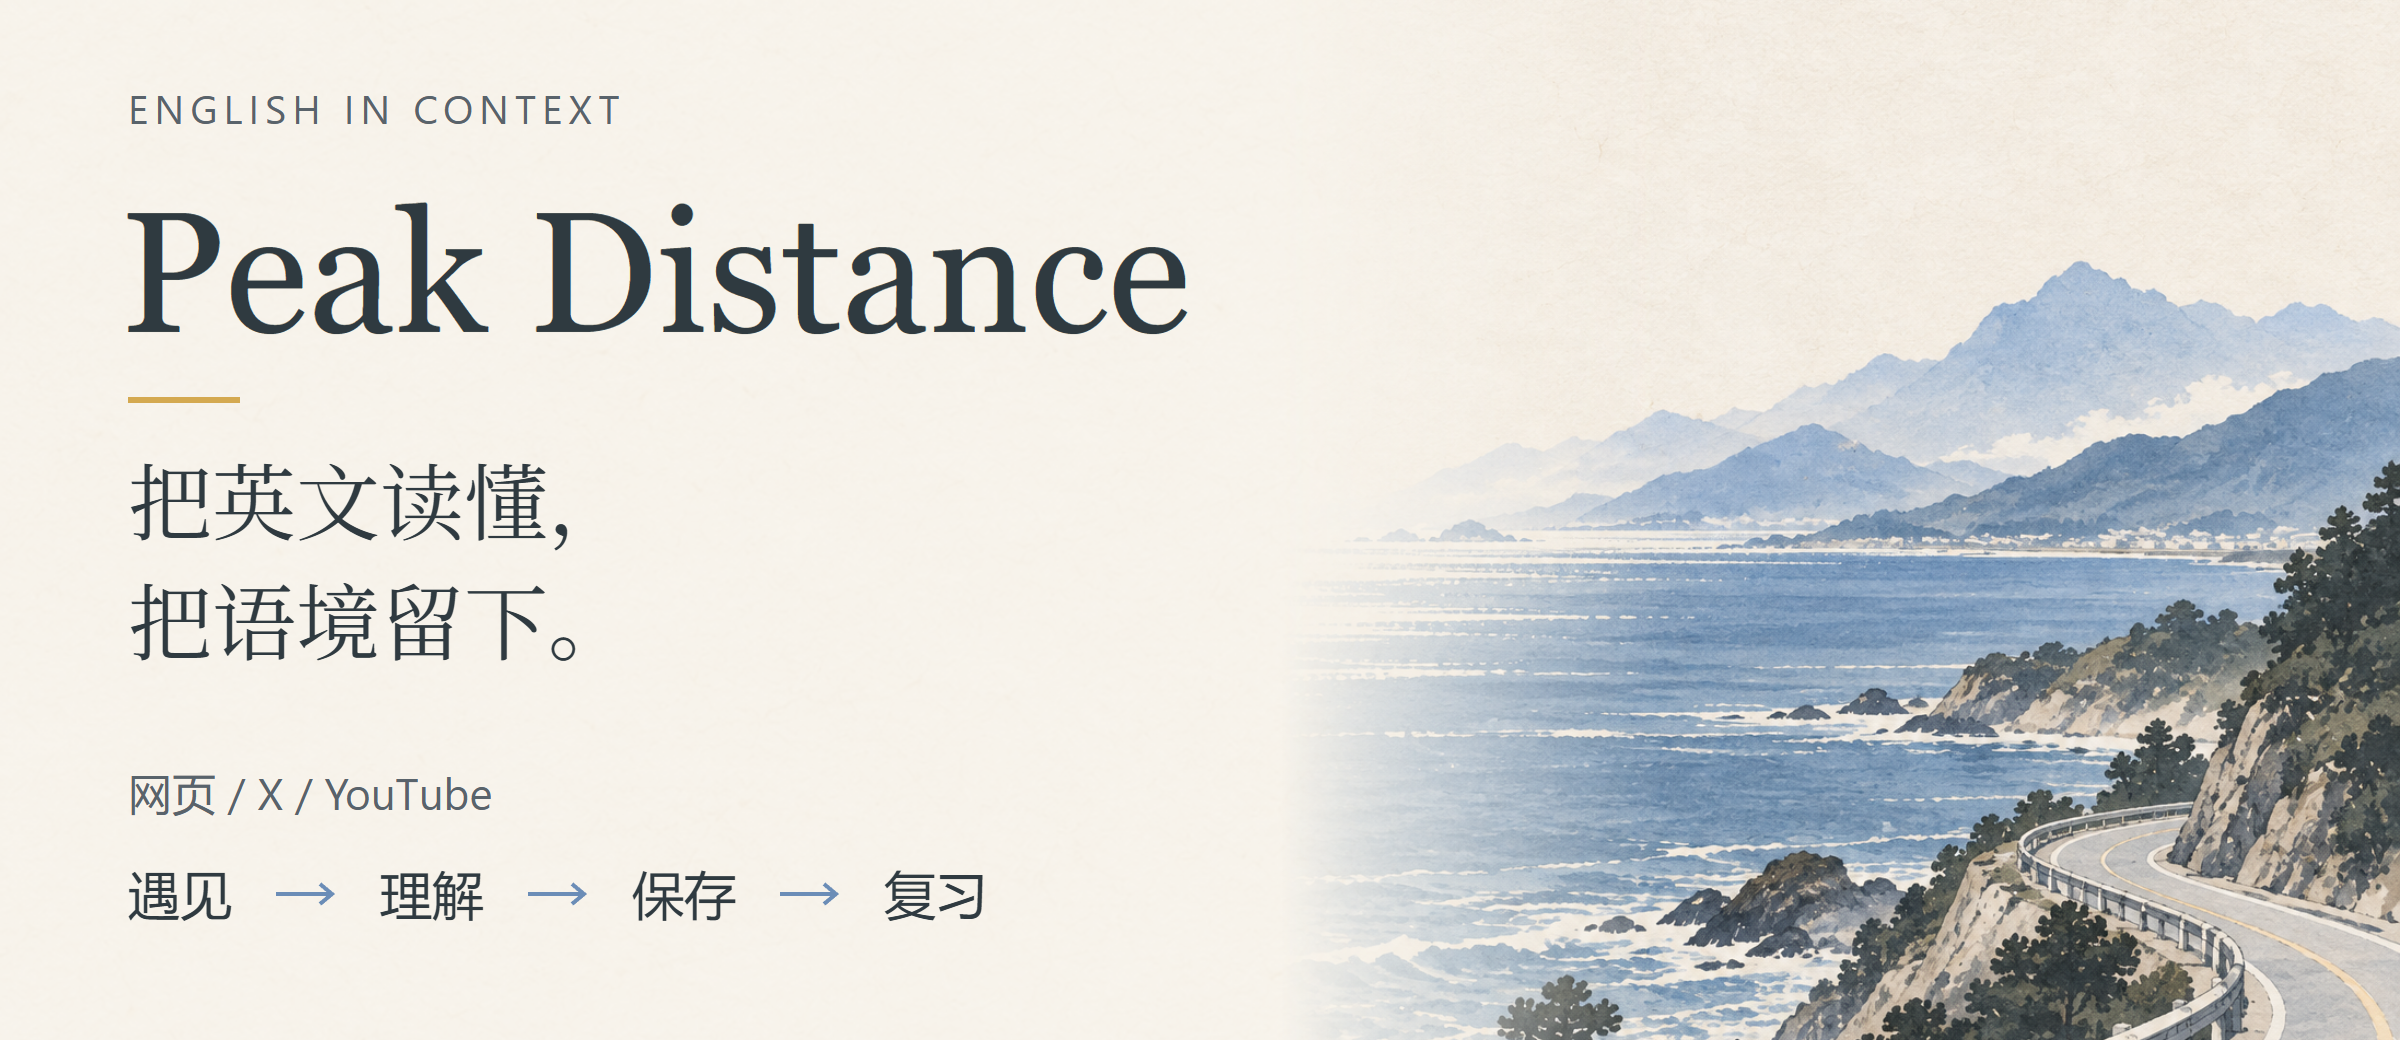
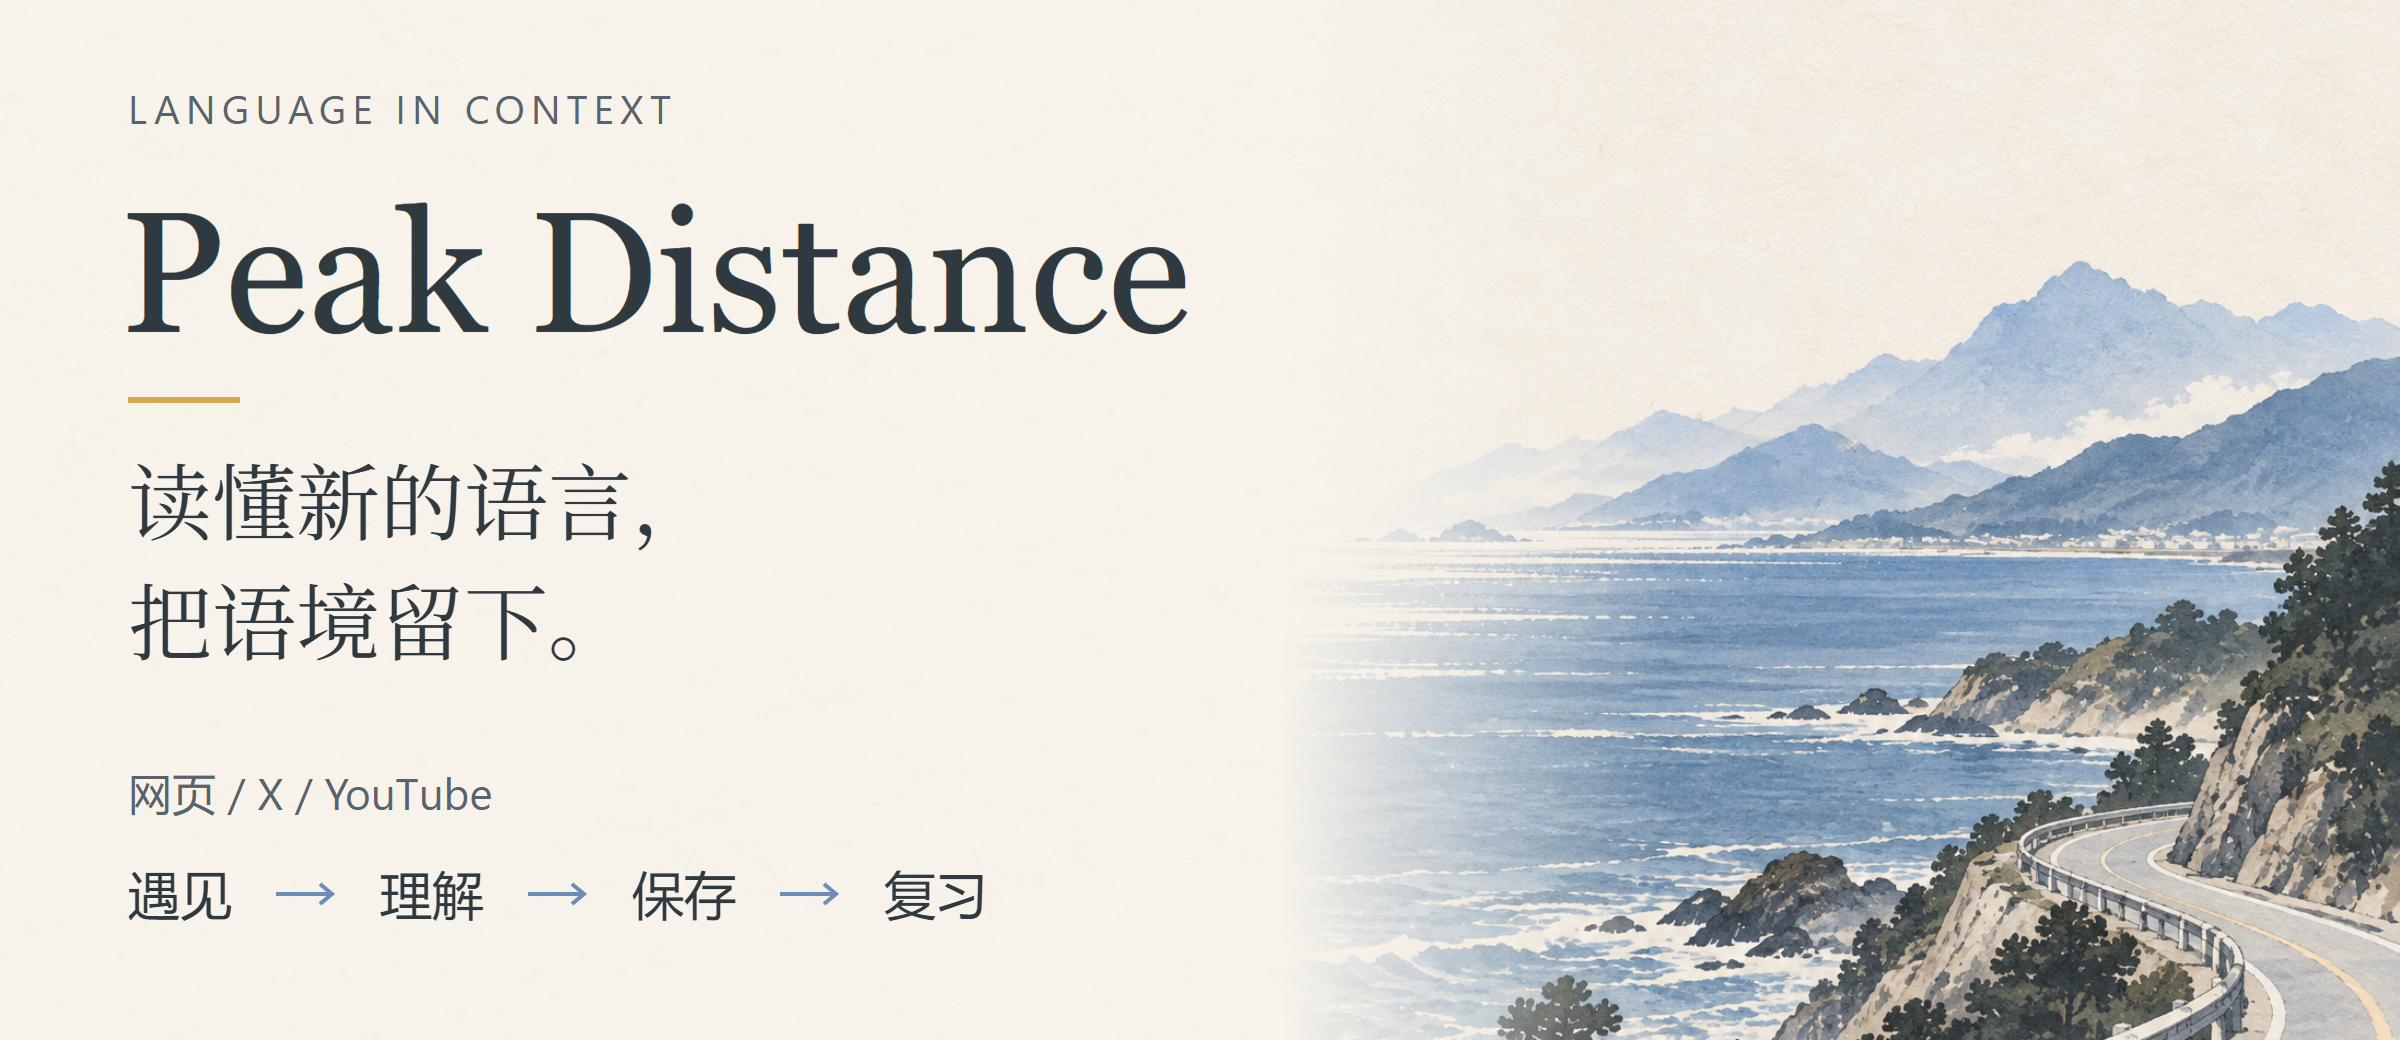
Update README and hero assets for multilingual focus and MIT license

Changed region(s): [[0.0312, 0.4308, 0.2812, 0.5231], [0.0625, 0.0923, 0.2812, 0.1231]]

diff --git a/README.md b/README.md
@@ -1,113 +1,112 @@
 <p align="center">
-  <img src="assets/readme/hero.png" width="100%" alt="Peak Distance：把英文读懂，把语境留下。在网页、X 与 YouTube 中遇见、理解、保存并复习英文表达。">
+  <img src="assets/readme/hero.png" width="100%" alt="Peak Distance：读懂新的语言，把语境留下。在网页、X 与 YouTube 中查词、保存原句并复习。">
 </p>
 
 # Peak Distance
 
-**在网页与视频里读懂英文，把值得记住的表达连同语境留下来。**
+**查过的词，和原句一起留下。**
 
-Peak Distance 是一款 Chrome 英语学习扩展。浏览网页、阅读 X 或观看 YouTube 时，就地查词、翻译、收藏，再回到原句复习。
+Peak Distance 是一款浏览器语言学习扩展。读网页、刷 X 或看 YouTube 时，你可以查词、翻译，再把想记住的表达连同原句保存下来。复习时回到它出现过的地方，也可以把学习记录存成本地文件，用 Obsidian 等笔记软件继续整理。
 
-[安装](#安装) · [使用](#使用) · [隐私与服务](#隐私与服务) · [常见问题](#常见问题) · [许可](#许可)
+它支持英语之外的多种语言。你可以选择译文和解释使用的语言，再按语言筛选生词本。
 
-- **就地理解**：选词查释义，选句或段落看翻译，保留词典来源。
-- **视频精读**：双语字幕、悬停查词、逐句回听，以及可选的句末自动暂停。
-- **带着语境记忆**：网页与视频共用生词本，收藏时保留原句、来源和视频位置。
-- **按需深入**：用 AI 解释用法，或附加页面、选区、字幕继续提问。
+[下载安装包](https://github.com/Rayyy3320/peak-distance/releases/latest) · [安装方法](#安装) · [使用](#使用) · [隐私与服务](#隐私与服务) · [许可](#许可)
 
 ## 安装
 
-需要桌面 **Chrome 142 或更新版本**。
+需要桌面 **Chrome 142 或更新版本**。当前发布版为 [v0.5.2](https://github.com/Rayyy3320/peak-distance/releases/tag/v0.5.2)。
 
-### 使用安装包
-
-从 [最新版本](https://github.com/Rayyy3320/peak-distance/releases/latest) 下载 `peak-distance-<版本>-chrome.zip` 安装包，**无需安装 Node.js，也无需运行命令**。
-
-1. **解压**到一个固定文件夹，例如 `PeakDistance`；打开后应能直接看到 `manifest.json`。
+1. 从 [Releases](https://github.com/Rayyy3320/peak-distance/releases/latest) 下载名称以 `-chrome.zip` 结尾的安装包，解压到一个固定文件夹。
 2. 在 Chrome 地址栏输入 `chrome://extensions`，开启右上角的「开发者模式」。
-3. 点击「加载已解压的扩展程序」，选择刚才包含 `manifest.json` 的文件夹。
+3. 点击「加载已解压的扩展程序」，选择包含 `manifest.json` 的文件夹。
 
-安装后，在浏览器的扩展菜单中将 **Peak Distance** 固定到工具栏，刷新已打开的网页即可使用。请保留安装文件夹，扩展运行时仍需读取其中的文件。
+无需安装 Node.js，也无需运行命令。安装后将 Peak Distance 固定到工具栏，刷新已打开的网页，就可以选词试用了。请保留解压后的文件夹，扩展运行时仍要读取它。
 
 <details>
-<summary>从源码构建（开发者）</summary>
+<summary>从源码构建</summary>
 
-准备 Node.js 22+ 和 npm，下载源码并在项目目录运行：
+准备 Node.js 22+ 和 npm，下载源码后，在项目目录运行：
 
 ```sh
 npm ci
 npm run build
 ```
 
-按上面的步骤加载 `.output/chrome-mv3` 文件夹。`npm run zip` 可生成用于分发的 Chrome 安装包。
-
-日常开发使用 `npm run dev`，提交改动前可运行 `npm run verify-local`。修改代码并重新构建后，需要重新加载扩展并刷新目标网页。
+然后按上面的步骤加载 `.output/chrome-mv3`。开发时可用 `npm run dev`，检查改动可用 `npm run verify-local`。重新构建后，还需要重新加载扩展并刷新目标网页。
 
 </details>
 
 ## 使用
 
-### 读网页
+### 读网页：查词，也保存原句
 
-选中单词或短语，点击「查词」，查看释义、例句和来源；选中句子或段落，点击「翻译」。选区旁的「添加到对话」气泡可直接把它带入 AI 问答：单词和短语会连同所在原句一起附加，句子段落附加选区本身，已有问题草稿会保留。漏选了首尾字母没关系，查词与词/短语的翻译都会自动补全并去掉外围标点（如选 learnin 查 learning，选 teady pace. 翻译 steady pace）；整句和段落的翻译保持原文不改写。
+选中单词或短语，点击「查词」；选中句子或段落，点击「翻译」。保存表达时，原句和来源也会一起留下。
 
-英语之外的内容同样可查询与收藏：界面会自动判断文字系统（日语、韩语、俄语、阿拉伯语、泰语等），无法确定语言时词卡显示「待确认」，可在收藏后核对。
+例如，读到 “She is comfortable **with** people.”，保存 **with** 后，复习时还能看到这句原文，不用只对着一个孤立的词回想。
 
-例如，读到 “She is comfortable **with** people.”，选中 **with** 查词并保存，生词本会同时保留这句原文。
+选区旁的「添加到对话」可以把内容带入 AI 问答。单词和短语会连同所在原句一起附加；选择句子或段落时，则附加选中的内容。已有的问题不会被替换，点击发送后才会请求 AI。
 
-### 看视频
+### 看视频：保留原文，按句回听
 
-打开带字幕的 YouTube 视频，在视频下方阅读双语字幕。不再强制切英语：沿用当前原文字幕轨道（同语言的人工字幕优先），译文语言由设置决定。悬停词语可查词并暂停，点击展开词卡；支持拖选短语、收藏词语和整句，播放器字幕和学习面板字幕列表中的选区也可以「添加到对话」（跨多句字幕会附带起始时间）。视频描述、评论等页面文字的选区与普通网页一样出现「查词／翻译／添加到对话」浮条。
+打开带字幕的 YouTube 视频，在视频下方阅读双语字幕。扩展沿用当前的原文字幕轨道；译文用什么语言，由你的设置决定。
 
-播放器底部的「双语」菜单可调整翻译方式、中文显示、字号，以及 **AP（每句结束自动暂停）**。打开学习面板后，还能查看字幕列表、词语出现位置和已保存内容，逐句重播。
+悬停字幕中的词语，可以查看释义并暂停播放；点击后展开词卡，也能拖选短语、收藏整句。播放器字幕和学习面板里的字幕选区，都可以添加到对话中继续提问。
 
-### 回看与复习
+播放器底部的「双语」菜单可以调整翻译方式、译文显示和字号。打开 **AP** 后，视频会在每句字幕结束时暂停；学习面板也提供上一句、重播和下一句，方便反复听一段内容。
 
-点击工具栏中的 Peak Distance，进入「生词本」。在原句中回顾表达，调整「已收藏／在学／已掌握」状态，或返回网页与视频中的原始位置。再次遇见已存词语时，网页和字幕会共享学习标记。
+### 学不同语言：选择自己看得懂的解释
 
-工作区可切换为固定侧栏或浮动面板，会话及未发送输入、材料与引用会随之保留；关闭面板或切换会话后丢弃未发送内容，首次发送才保存到历史。
+在「设置 → 语言」中选择默认的「理解语言」，也就是你希望译文和词语解释使用的语言。还可以单独设置某种原文语言，例如用中文理解英语、用英语理解日语。
 
-### 语言与学习库
+网页和视频中的表达进入同一本生词本。点击生词本顶部的语言筛选按钮，可以只看某种语言的记录，再调整「已收藏／在学／已掌握」状态，或进入原句复习。
 
-「设置 → 语言」可设定默认理解语言（词语解释与译文的 target），并可按源语言覆盖，例如「日语 → 英语」。开启「无词典结果时自动使用 AI 查词」后，仅当你主动点击查词、词典明确无结果且 AI 已配置时才调用 AI；悬停与预览永不触发。
+不同语言能使用的查询来源不同。英语到中文优先查询在线词典，其他语言组合可能使用常规译文。词卡会区分来源；语言无法确认时会标为「待确认」，不会把所有内容都当作英语。
 
-「设置 → 学习库」连接一个本地文件夹（可放在 Obsidian 仓库内）：词汇、句子、笔记、偏好和完整聊天历史以 Markdown 保存，Chrome 与 Edge 连接同一目录即可共享。Obsidian 中修改状态或「我的笔记」会被读回；两边同时修改同一字段会提示冲突并保留双方。断开连接不删除任何文件。
+### 留在本地：把学习记录放进自己的文件夹
 
-### 使用 AI（可选）
+在「设置 → 学习库」点击「连接学习文件夹」，选择一个本地目录。词汇、句子、笔记、语言偏好和已保存的完整聊天历史，会以 Markdown 格式保存，也就是能用文本编辑器打开的笔记文件。你也可以选择 Obsidian 仓库中的文件夹。
 
-在「设置 → AI 服务」选择服务商，填写 **API Key**，点击「保存并使用」。预设支持 DeepSeek、OpenAI、Anthropic、Gemini、智谱 GLM 和 Kimi，自带地址与默认模型；原 DeepSeek Key 可继续使用。
+在 Obsidian 中修改词条状态或「我的笔记」，扩展会读回这些变化。同一台电脑上的 Chrome 和 Edge 连接同一个目录后，可以共享学习记录；两边同时修改同一字段时，会保留双方内容并提示冲突。
 
-其他兼容服务选择「自定义服务」，在「高级设置」填写接口格式、HTTPS API 地址和模型 ID。支持 OpenAI Chat Completions、Anthropic Messages、Gemini 原生协议；高级设置也可调整预设服务的地区地址或账户可用模型。保存新地址时，按浏览器提示允许访问该 API 域名。
+不连接文件夹也能使用，记录仍保存在浏览器扩展中。断开学习库不会删除已有文件，API Key 和 AI 服务配置也不会写入学习库。
 
-问答可以直接提问，也可以通过「附加材料」加入页面、选区或视频字幕；当前材料显示在输入框上方，点开可查看完整内容，× 可移除且保留问题。最近的选区会被临时记住：在页面选好后进入侧栏再点「附加选区」即可，导航或换视频后需重新选择。点击「继续问」只会先带入词卡表达与原句，发送后才请求 AI。
+### 使用 AI：带着原文问清楚
 
-**查词与常规翻译无需 key。配置 key 不会自动启用 AI 翻译。**
+在「设置 → AI 服务」中选择服务商，填写自己的 API Key，点击「保存并使用」。预设包括 DeepSeek、OpenAI、Anthropic、Gemini、智谱 GLM 和 Kimi；其他兼容服务可在高级设置中填写地址、模型和接口格式。
+
+你可以直接提问，也可以附加页面、选区或字幕。材料会显示在输入框上方，点开能查看完整内容，移除材料不会删掉已输入的问题。词卡里的「继续问」也会先带入表达和原句，再由你决定是否发送。
+
+**常规查词和翻译无需 API Key。** 配置 Key 后不会自动切换为 AI 翻译。若另外开启「无词典结果时自动使用 AI 查词」，只有主动查词、没有适用词典或词典明确无结果，并且 AI 已配置时，才会尝试 AI 解释。悬停预览不会触发这一功能，词典网络故障也不会触发它。
 
 ## 隐私与服务
 
-- 生词、原句、学习状态和聊天记录保存在本机扩展中，不提供账号或云同步；连接学习库后以本地 Markdown 文件共享，不经过任何云端。API Key 与 AI 配置只保存在本机浏览器，不写入学习库。
-- 查词使用有道、剑桥英汉；常规字幕翻译优先使用可用中文字幕、平台翻译，再尝试 Google 免费翻译。
-- 联网查询会向对应服务发送所需文本；AI 请求会发送问题及所附材料。各服务的 API Key 保存在本机扩展设置中，宿主网页无法读取。切换服务后，新请求使用新配置，已开始的问答继续使用发起时的配置。
-- AI 仅在主动使用相关功能或选择 AI 翻译模式时调用；普通查询失败不会自动转为 AI。原句复习使用已保存数据，不请求 AI。
+- 学习记录默认保存在本机扩展中；连接学习库后，通过本地文件夹共享。扩展不提供账号或内置云同步。
+- API Key 和 AI 服务配置只保存在当前浏览器，不写入 Markdown 学习库。使用同一学习库的另一浏览器，需要自行配置 AI 服务。
+- 联网查词或翻译时，所需文本会发送给对应服务；使用 AI 时，会发送问题及所附材料。服务可用性、模型权限和费用取决于你的配置与供应商。
+- 原句复习读取已有记录，不发起 AI 请求。
 
 ## 常见问题
 
+**未发送的内容会一直保存吗？**
+
+不会。切换固定侧栏和浮动面板时，输入、材料和引用会保留；关闭面板或切换会话后，未发送的内容会丢弃。新对话在首次发送后才进入历史记录，临时输入不会写入学习库。
+
+**为什么有时查不到释义或译文？**
+
+不同语言的词典覆盖范围不同，翻译服务也可能受网络或限流影响。可以重试、换来源，或按需使用 AI。查询失败不会阻止你保存表达与原句。
+
+**支持没有字幕的视频吗？**
+
+目前依赖 YouTube 已有字幕，不采集音频，也不为无字幕视频生成字幕。暂不支持 Shorts、直播或 Netflix。
+
 **如何更新？**
 
-安装包版本需要手动更新：关闭使用扩展的网页，将新版解压到原安装目录并替换文件，在 `chrome://extensions` 中点击 Peak Distance 的「重新加载」，再打开或刷新网页。不要先卸载扩展；卸载会删除本机扩展数据。
+将新版安装包解压到原安装目录并替换文件，在 `chrome://extensions` 中点击 Peak Distance 的「重新加载」，再刷新使用扩展的网页。不要先卸载扩展，卸载会删除浏览器中的本机扩展数据。
 
-**为什么没有查词入口？**
+**安装后为什么没有查词入口？**
 
-安装或更新后先刷新网页，再检查扩展的「网站访问」是否允许当前站点。
-
-**为什么没有中文字幕？**
-
-视频需要有可用字幕，翻译服务也可能受网络或限流影响。可以重试，或主动选择 AI 翻译；失败时会保留英文原文。
-
-**支持哪些视频？**
-
-目前面向 YouTube 常规视频，不支持 Shorts、直播或 Netflix；不采集音频，也不为无字幕视频生成字幕。
+先刷新网页，再检查扩展的「网站访问」是否允许当前站点。
 
 ## 许可
 
-项目原创部分以 [MIT](LICENSE) 许可发布；第三方组件沿用各自许可，详见 `public/THIRD_PARTY_NOTICES.txt`。
+Peak Distance 以 [MIT](LICENSE) 许可发布。第三方组件沿用各自许可，详见 [第三方许可声明](public/THIRD_PARTY_NOTICES.txt)。
